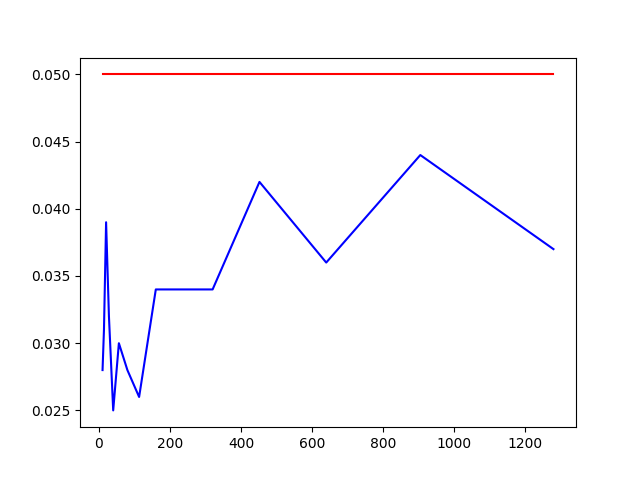
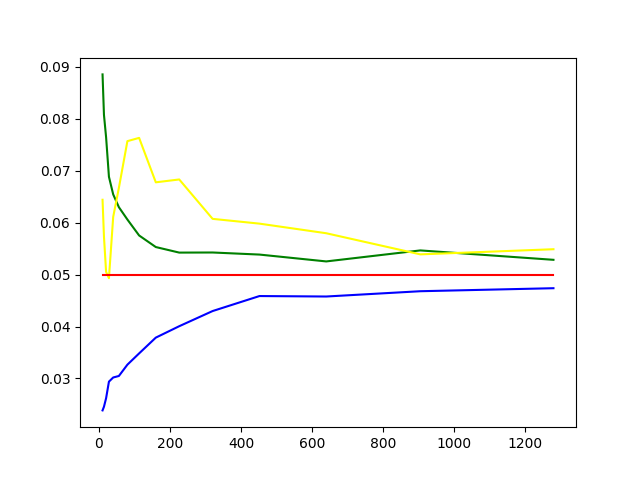
after first run

diff --git a/bootstrap/main.py b/bootstrap/main.py
@@ -85,10 +85,6 @@ def do_one_res_bootstrap(n, slope_hat, residuals):
 
     return T
 
-def residual_bootstrap_void(alpha, n, B):
-    data = AR.generate_sample(nsample = n + 1)
-    return 0
-
 def residual_bootstrap(alpha, n, B):
     data = AR.generate_sample(nsample = n + 1)
     x = data[0:(n-1)]
@@ -99,19 +95,13 @@ def residual_bootstrap(alpha, n, B):
     t_hat = (slope - beta) / stderr
     residuals = y - slope*x
 
-    t_samp = np.array([residual_bootstrap_void(n, slope, residuals) for i in range(B)])
+    t_samp = np.array([do_one_res_bootstrap(n, slope, residuals) for i in range(B)])
 
     p = calc_p(t_hat, t_samp, B)
 
     if(p < alpha):
         return 1
     return 0
-
-@timer
-def residual_bootstrap_simulation_old(alpha, n, replications, B):
-    results = [residual_bootstrap(alpha, n, B) for i in range(replications)]
-    r = ft.reduce(lambda a,b: a + b, results, 0)
-    return(r / replications)
 
 @timer
 def residual_bootstrap_simulation(alpha, n, replications, B):
@@ -130,21 +120,6 @@ def wild_bootstrap(alpha, n, B):
         result = stats.linregress(x,y)
 
 ############################################################
-
-def do_one_pairs_bootstrap_void(beta_hat, x, y, index):
-    index_r = index
-    slope = solve(x[index_r],y[index_r])
-    stderr = calc_StdErr(slope,x[index_r],y[index_r])
-
-    while stderr == 0:
-        # this is for the case we have only selected two kind of row
-        index_r = np.random.choice(index, len(index))
-        slope = solve(x[index_r],y[index_r])
-        stderr = calc_StdErr(slope,x[index_r],y[index_r])
-
-    T = (slope - beta_hat) / stderr
-
-    return T
 
 def do_one_pairs_bootstrap(beta_hat, x, y, index):
     index_r = np.random.choice(index, len(index))
